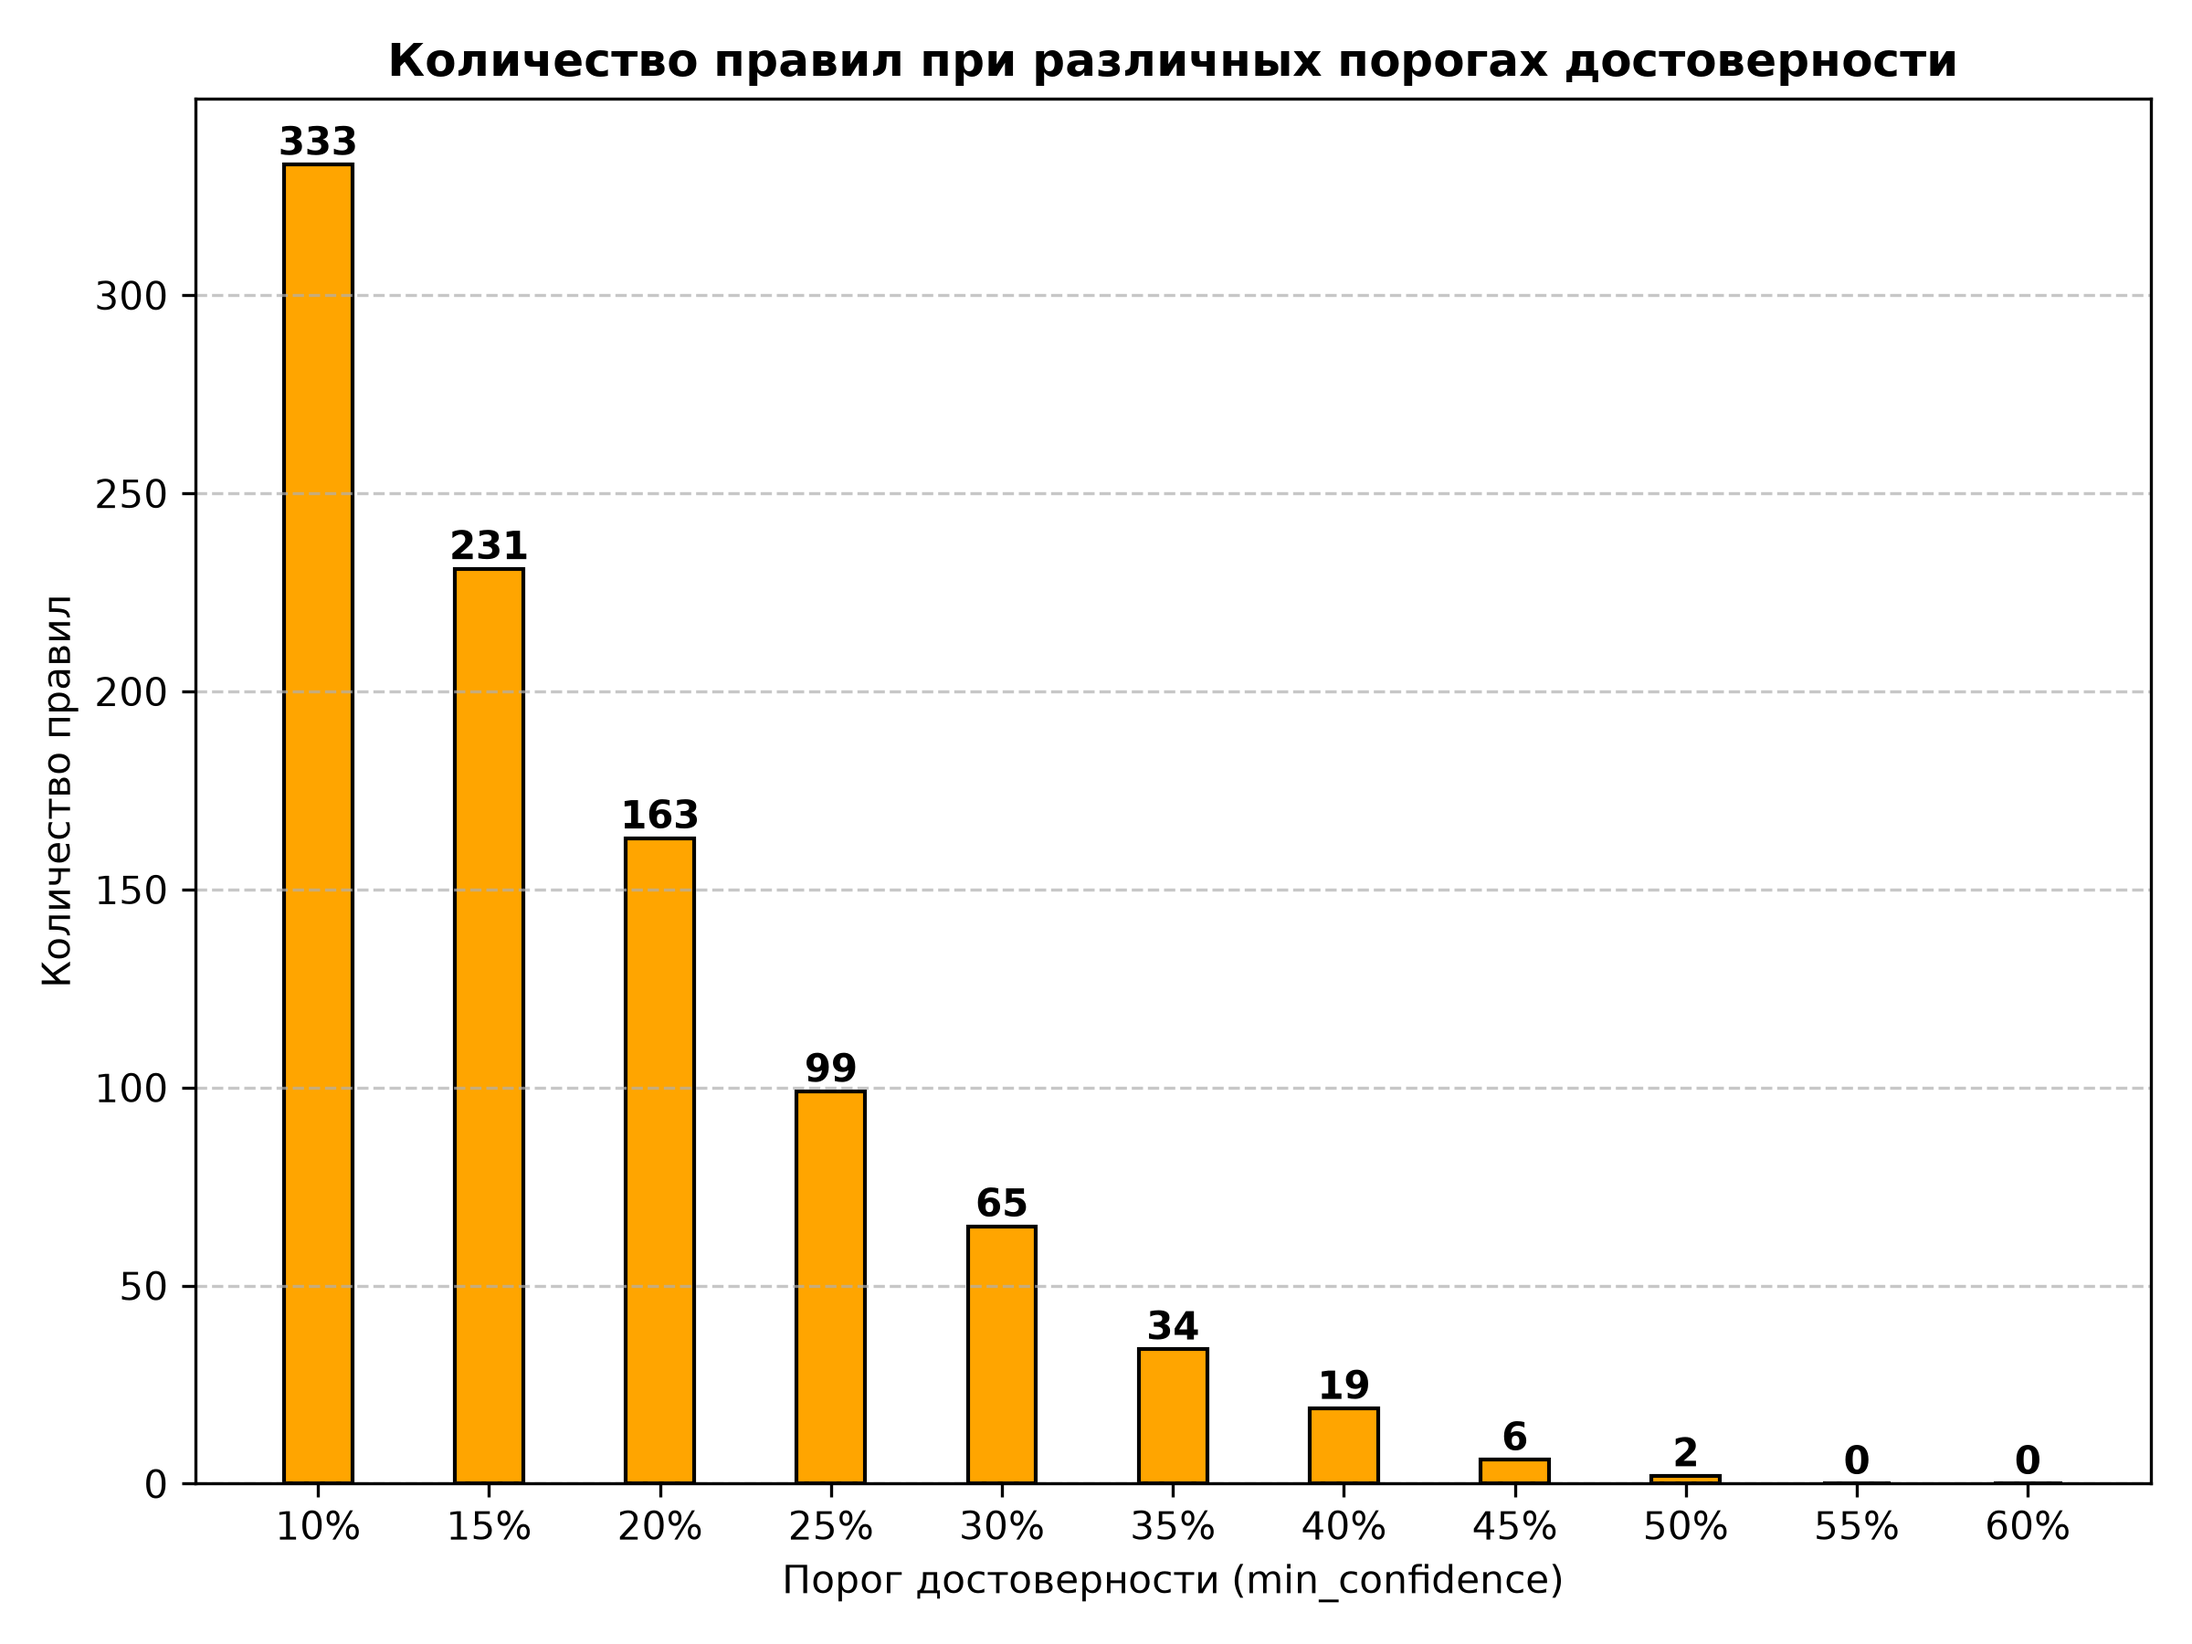
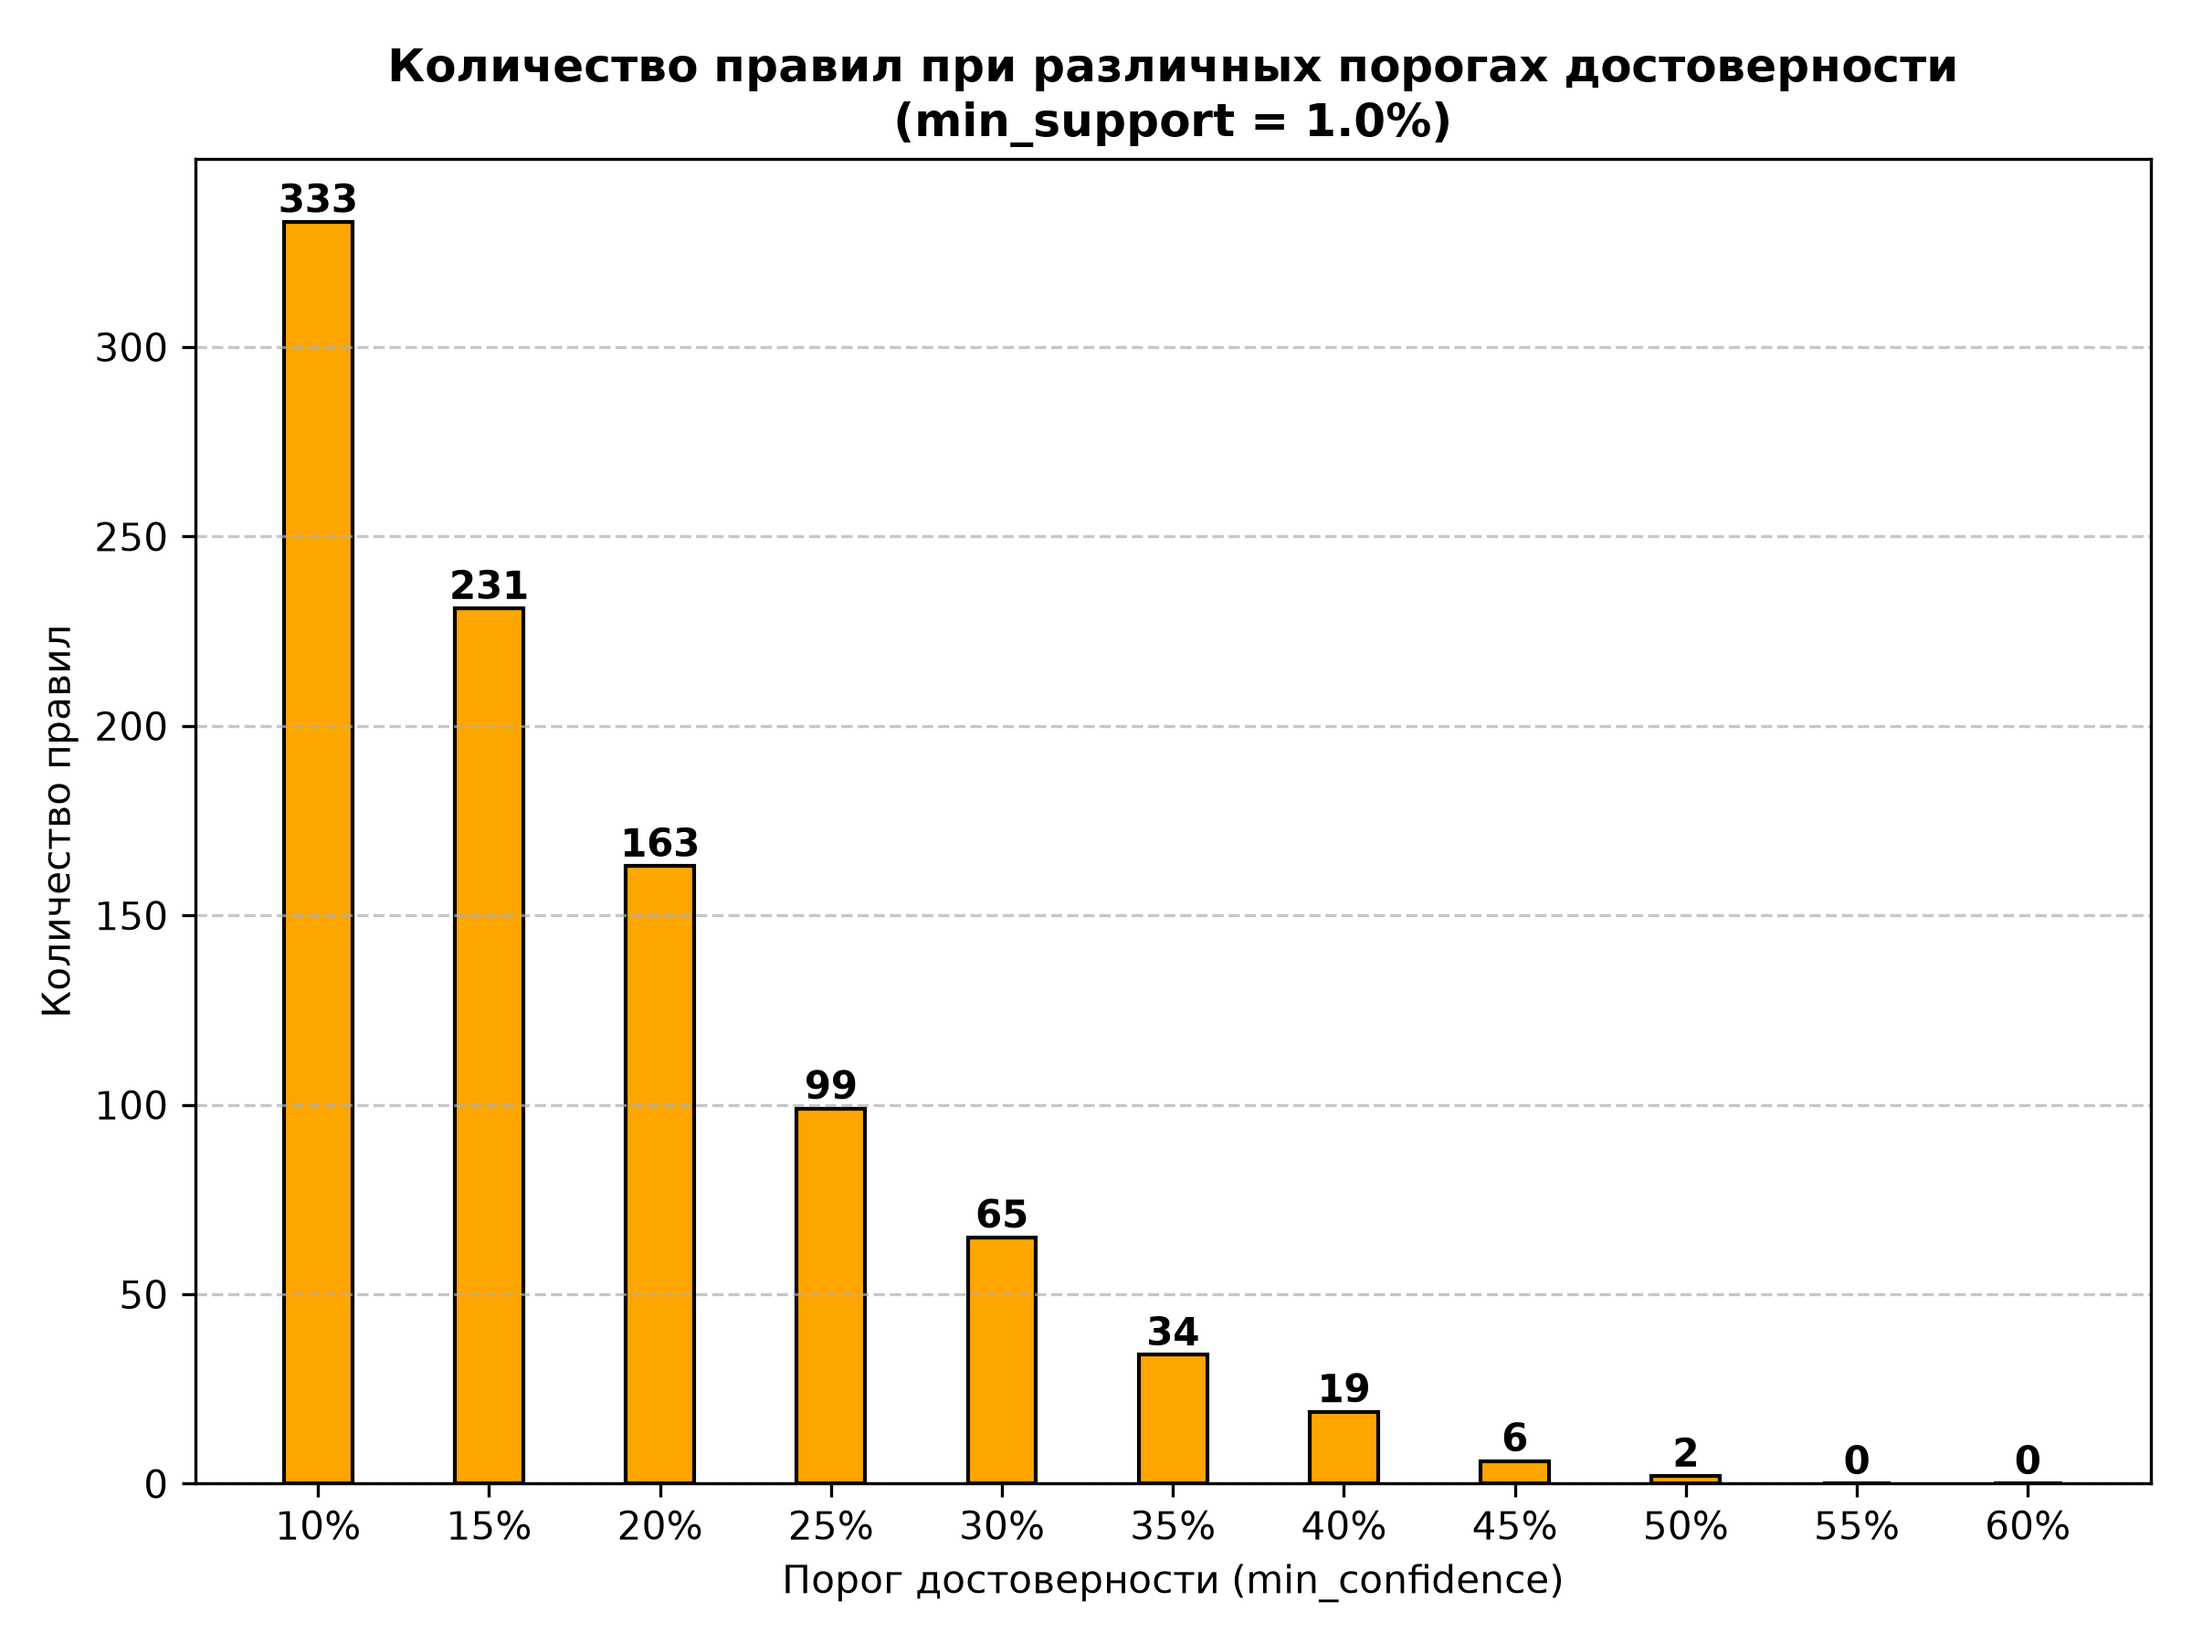
Исправлен заголовок в диаграмме количества правил

diff --git a/Practice 2/lab2.py b/Practice 2/lab2.py
@@ -351,7 +351,7 @@ def visualize_rule_results(experiment_results, fixed_support):
         conf_labels, rule_counts, color='orange', width=0.4, edgecolor='black'
     )
     plt.title(
-        'Количество правил при различных порогах достоверности',
+        f'Количество правил при различных порогах достоверности\n(min_support = {fixed_support * 100:.1f}%)',
         fontsize=12,
         fontweight='bold',
     )
